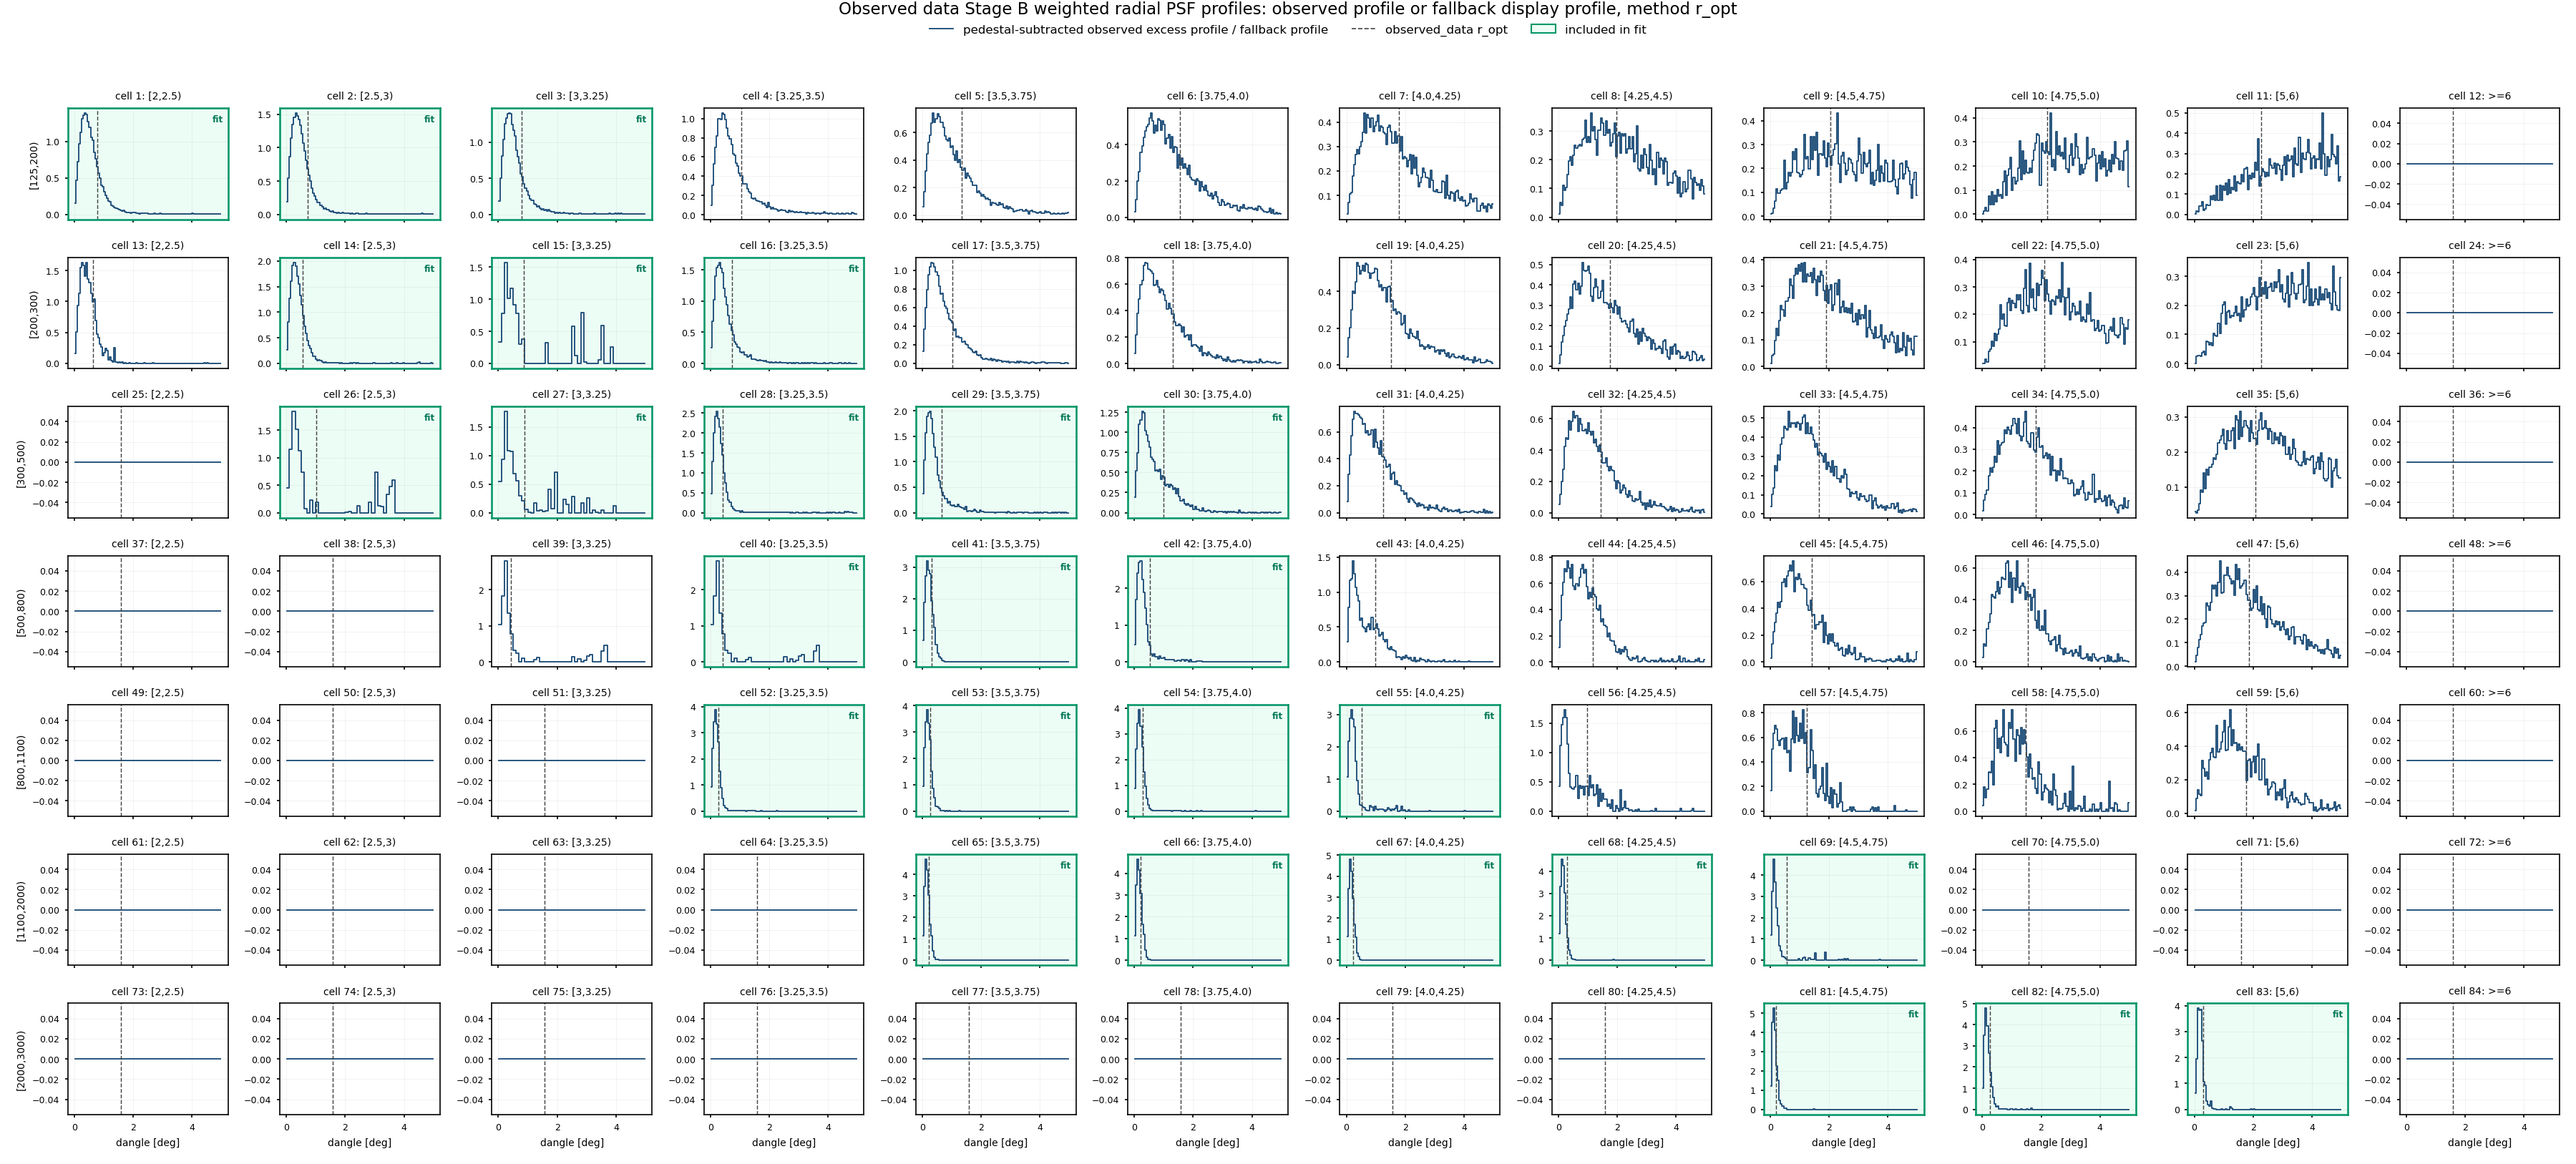
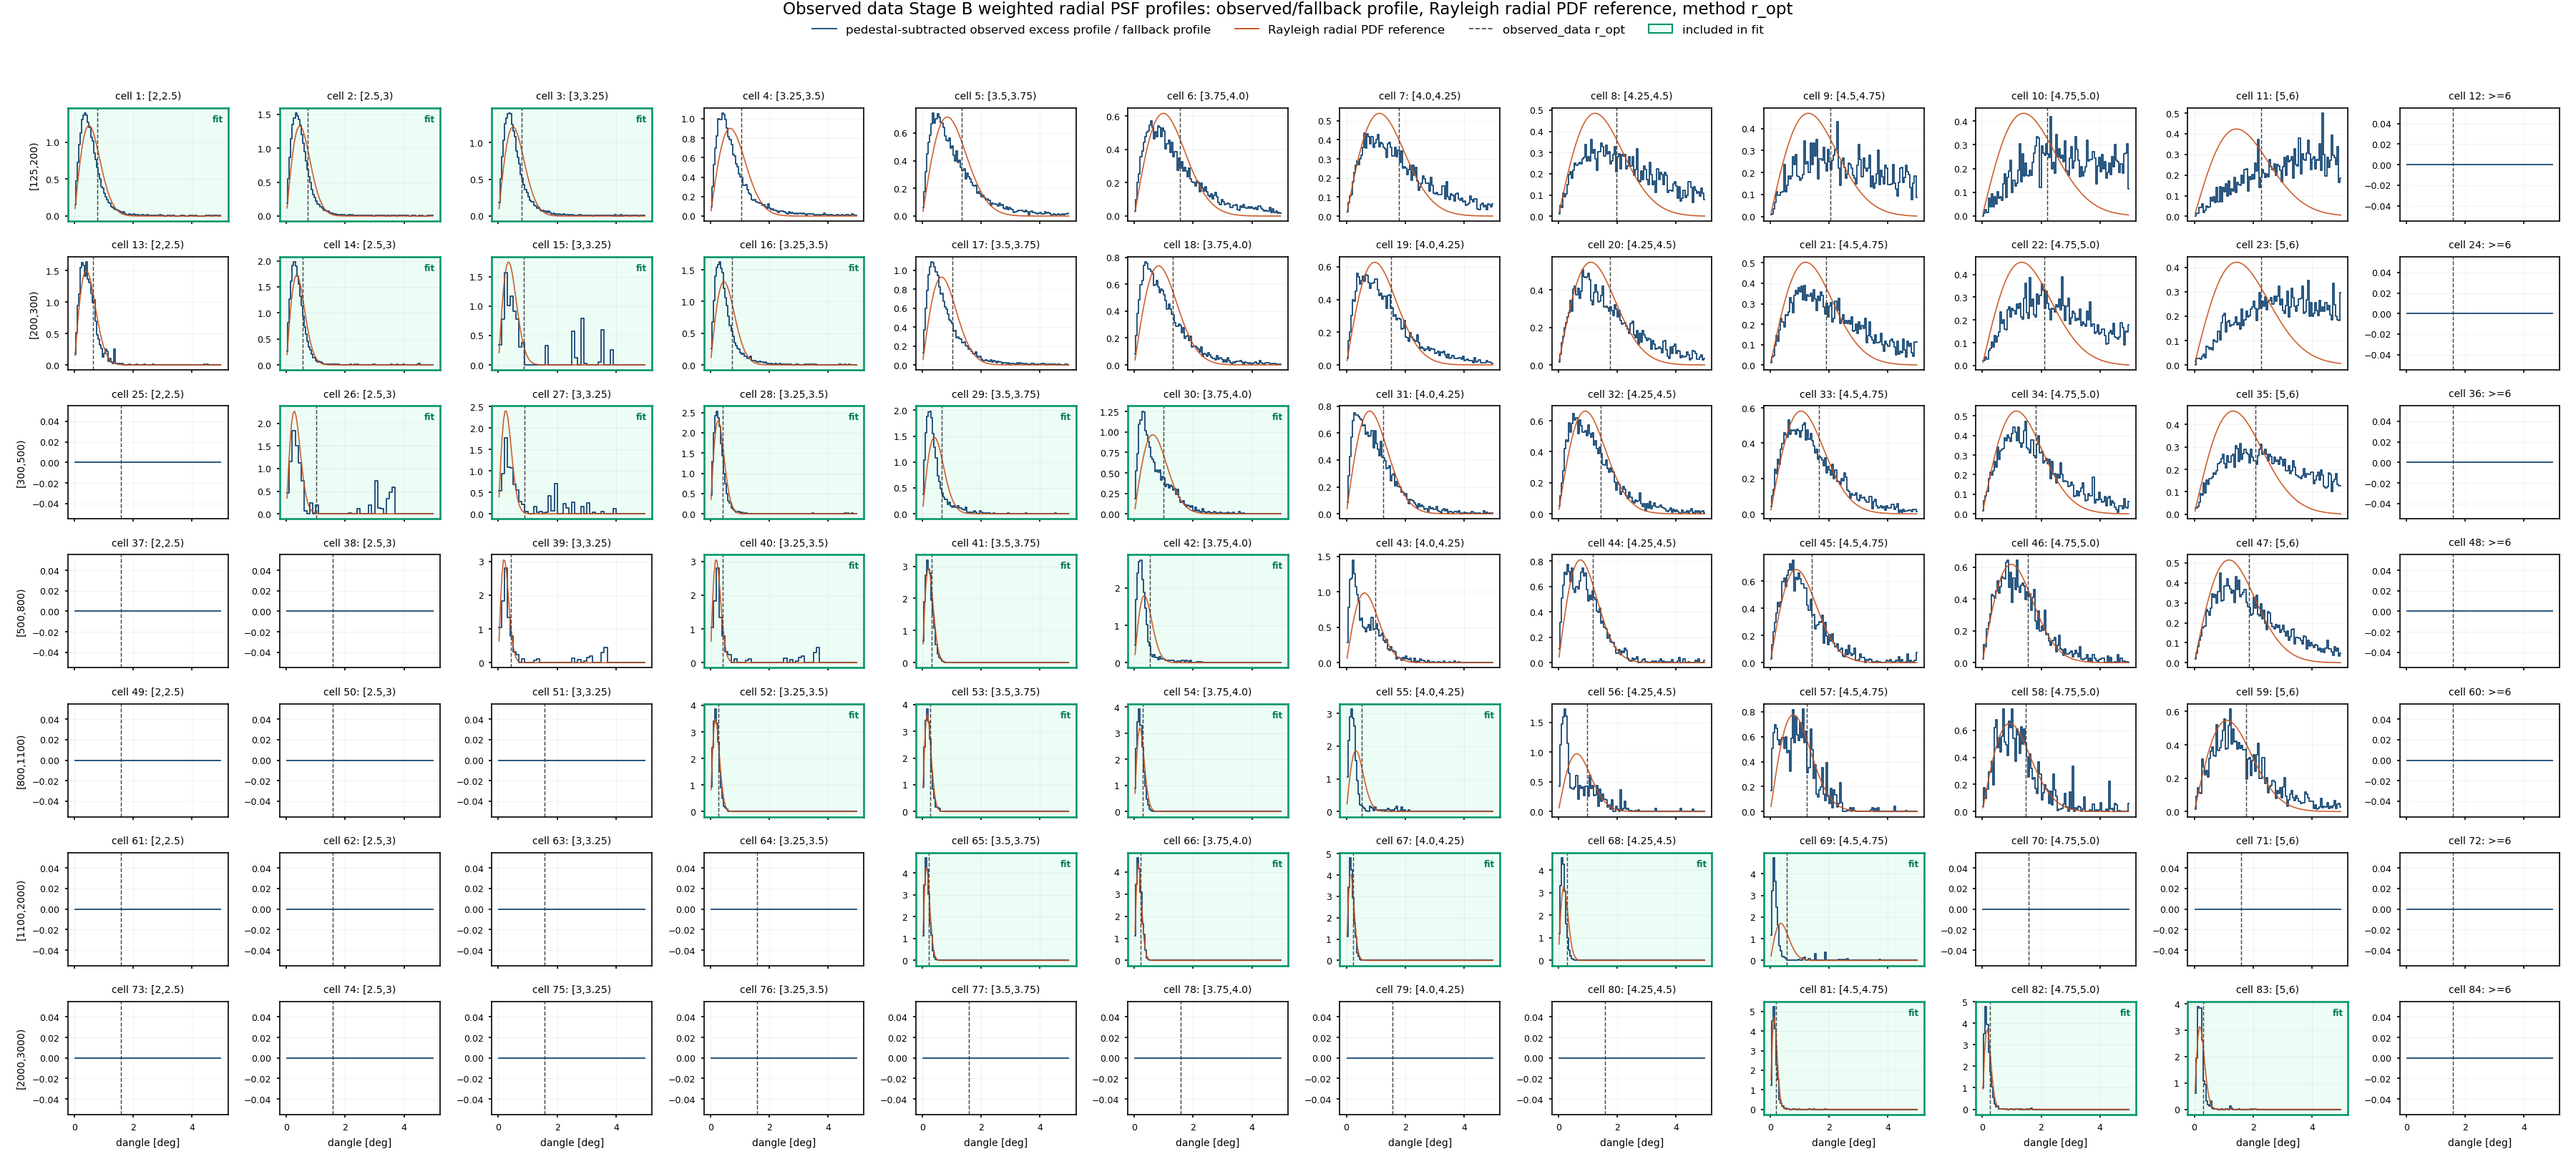
report(apply): add Rayleigh reference to observed-data PSF grid

diff --git a/apply/report/crab_sed_v5_psf_comparison_report.html b/apply/report/crab_sed_v5_psf_comparison_report.html
@@ -155,7 +155,7 @@
   <figure><img src="assets/v5-psf-comparison/v5_psf_rayleigh_baseline_weighted_profiles_fit_shaded.png" alt="Rayleigh baseline fit-cell shaded weighted PSF profile grid"><figcaption><strong>Rayleigh baseline fit-cell shaded weighted PSF profile grid</strong> Blue steps show the Stage B Crab-theta-weighted MC radial profile. The orange curve is the Rayleigh radial PDF fit/reference from the same cell&#x27;s Rayleigh sigma. The grey dashed line is Rayleigh r_opt = 1.58 sigma. Green shaded panels are cells included in the final SED fit.</figcaption></figure>
 <figure><img src="assets/v5-psf-comparison/v5_psf_two_1d_gaussian_weighted_profiles_fit_shaded.png" alt="Two 1D Gaussian fit-cell shaded weighted PSF profile grid"><figcaption><strong>Two 1D Gaussian fit-cell shaded weighted PSF profile grid</strong> Blue steps show the Stage B Crab-theta-weighted MC radial profile. The purple curve is the radial PDF induced by the fitted independent x/y Gaussian model; this is not Rayleigh except in the circular sigma_x = sigma_y limit. The grey dashed line is the two-1D circular containment radius solved from the fitted x/y Gaussian sigmas. Green shaded panels are cells included in the final SED fit.</figcaption></figure>
 <figure><img src="assets/v5-psf-comparison/v5_psf_mc_quantile_715_weighted_profiles_fit_shaded.png" alt="MC quantile fit-cell shaded weighted PSF profile grid"><figcaption><strong>MC quantile fit-cell shaded weighted PSF profile grid</strong> Blue steps show the Stage B Crab-theta-weighted MC radial profile. No parametric fit curve is drawn because this branch defines the aperture directly from the weighted empirical quantile. The grey dashed line is the empirical Crab-theta-reweighted mc_dangle quantile radius. Green shaded panels are cells included in the final SED fit.</figcaption></figure>
-<figure><img src="assets/v5-psf-comparison/v5_psf_observed_data_weighted_profiles_fit_shaded.png" alt="Observed data fit-cell shaded weighted PSF profile grid"><figcaption><strong>Observed data fit-cell shaded weighted PSF profile grid</strong> Blue steps show the pedestal-subtracted observed Crab excess radial profile when the cell passes the data-PSF quality gates; fallback or psfborrow cells show the documented fallback display profile. The grey dashed line is the observed-Crab radial-profile aperture after annnorm-background and flat-pedestal subtraction, or the documented fallback radius when the observed profile fails quality gates. Green shaded panels are cells included in the final SED fit.</figcaption></figure>
+<figure><img src="assets/v5-psf-comparison/v5_psf_observed_data_weighted_profiles_fit_shaded.png" alt="Observed data fit-cell shaded weighted PSF profile grid"><figcaption><strong>Observed data fit-cell shaded weighted PSF profile grid</strong> Blue steps show the pedestal-subtracted observed Crab excess radial profile when the cell passes the data-PSF quality gates; fallback or psfborrow cells show the documented fallback display profile. The orange curve is the Rayleigh radial PDF reference from the same cell&#x27;s Rayleigh sigma; it is shown only as a comparison curve, not as the fit used to define the observed-data aperture. The grey dashed line is the observed-Crab radial-profile aperture after annnorm-background and flat-pedestal subtraction, or the documented fallback radius when the observed profile fails quality gates. Green shaded panels are cells included in the final SED fit.</figcaption></figure>
 
   <h2>Stage F Fit And Pulls</h2>
   <table><thead><tr><th>run</th><th>LogPar phi0</th><th>alpha</th><th>beta</th><th>chi2 / ndof</th><th>chi2/ndof</th><th>max abs pull</th><th>PL phi0</th><th>PL gamma</th></tr></thead><tbody><tr><td>v4 aperture baseline</td><td>2.36784e-12</td><td>2.7615</td><td>0.14536</td><td>117.3 / 23</td><td>5.1</td><td>5.538</td><td>2.12073e-12</td><td>2.632</td></tr>
@@ -180,16 +180,16 @@
   <p>This legacy diagnostic uses the same unrounded Rayleigh-contract target containment, <code>0.712979</code>, and computes an observed-excess <code>r715</code> from positive radial excess shells in the existing v4 empirical-PSF profiles. The observed_data branch above uses the stricter pedestal-subtracted version with fallback gates as its Stage B aperture input.</p>
   <table><thead><tr><th>cell</th><th>Nhit</th><th>predE</th><th>observed r715</th><th>MC quantile r715</th><th>obs/MC r715</th><th>Rayleigh r_opt</th></tr></thead><tbody><tr><td>1</td><td>[125,200)</td><td>[2,2.5)</td><td>2.602</td><td>2.408</td><td>1.08</td><td>0.7816</td></tr>
 <tr><td>2</td><td>[125,200)</td><td>[2.5,3)</td><td>1.6</td><td>0.8369</td><td>1.912</td><td>0.7211</td></tr>
-<tr><td>14</td><td>[200,300)</td><td>[2.5,3)</td><td>1.416</td><td>0.6457</td><td>2.194</td><td>0.5542</td></tr>
-<tr><td>15</td><td>[200,300)</td><td>[3,3.25)</td><td>0.8489</td><td>0.5583</td><td>1.52</td><td>0.5469</td></tr>
-<tr><td>16</td><td>[200,300)</td><td>[3.25,3.5)</td><td>2.912</td><td>0.7978</td><td>3.65</td><td>0.7287</td></tr>
-<tr><td>26</td><td>[300,500)</td><td>[2.5,3)</td><td>1.024</td><td>0.586</td><td>1.748</td><td>0.4214</td></tr>
-<tr><td>27</td><td>[300,500)</td><td>[3,3.25)</td><td>0.9543</td><td>0.4805</td><td>1.986</td><td>0.3961</td></tr>
-<tr><td>28</td><td>[300,500)</td><td>[3.25,3.5)</td><td>2.435</td><td>0.4178</td><td>5.829</td><td>0.4156</td></tr>
-<tr><td>29</td><td>[300,500)</td><td>[3.5,3.75)</td><td>1.751</td><td>0.628</td><td>2.788</td><td>0.6477</td></tr>
-<tr><td>40</td><td>[500,800)</td><td>[3.25,3.5)</td><td>0.4847</td><td>0.4072</td><td>1.19</td><td>0.3108</td></tr>
-<tr><td>41</td><td>[500,800)</td><td>[3.5,3.75)</td><td>2.06</td><td>0.3308</td><td>6.227</td><td>0.3253</td></tr>
-<tr><td>53</td><td>[800,1100)</td><td>[3.5,3.75)</td><td>2.035</td><td>0.2708</td><td>7.514</td><td>0.2622</td></tr></tbody></table>
+<tr><td>15</td><td>[200,300)</td><td>[2.5,3)</td><td>1.416</td><td>0.5583</td><td>2.537</td><td>0.5469</td></tr>
+<tr><td>16</td><td>[200,300)</td><td>[3,3.25)</td><td>0.8489</td><td>0.7978</td><td>1.064</td><td>0.7287</td></tr>
+<tr><td>17</td><td>[200,300)</td><td>[3.25,3.5)</td><td>2.912</td><td>1.235</td><td>2.358</td><td>1.033</td></tr>
+<tr><td>28</td><td>[300,500)</td><td>[2.5,3)</td><td>1.024</td><td>0.4178</td><td>2.452</td><td>0.4156</td></tr>
+<tr><td>29</td><td>[300,500)</td><td>[3,3.25)</td><td>0.9543</td><td>0.628</td><td>1.52</td><td>0.6477</td></tr>
+<tr><td>30</td><td>[300,500)</td><td>[3.25,3.5)</td><td>2.435</td><td>1.131</td><td>2.152</td><td>0.9901</td></tr>
+<tr><td>31</td><td>[300,500)</td><td>[3.5,3.75)</td><td>1.751</td><td>1.357</td><td>1.29</td><td>1.254</td></tr>
+<tr><td>42</td><td>[500,800)</td><td>[3,3.25)</td><td>1.965</td><td>0.4473</td><td>4.393</td><td>0.5331</td></tr>
+<tr><td>43</td><td>[500,800)</td><td>[3.25,3.5)</td><td>0.4847</td><td>1.062</td><td>0.4563</td><td>0.9741</td></tr>
+<tr><td>44</td><td>[500,800)</td><td>[3.5,3.75)</td><td>2.06</td><td>1.226</td><td>1.68</td><td>1.183</td></tr></tbody></table>
   <figure><img src="assets/v5-psf-comparison/v5_observed_excess_r715_diagnostic.png" alt="Observed excess r715 diagnostic"><figcaption><strong>Observed excess r715 diagnostic</strong> Legacy observed Crab excess r715 cross-check before the stricter observed_data branch gates are applied.</figcaption></figure>
 
   <h2>Contract Validation</h2>

diff --git a/apply/report/build_v5_psf_comparison_report.py b/apply/report/build_v5_psf_comparison_report.py
@@ -741,6 +741,8 @@ def profile_grid_caption(method: str) -> str:
         "observed_data": (
             "Blue steps show the pedestal-subtracted observed Crab excess radial profile when the cell passes the data-PSF quality gates; "
             "fallback or psfborrow cells show the documented fallback display profile. "
+            "The orange curve is the Rayleigh radial PDF reference from the same cell's Rayleigh sigma; it is shown only as a comparison curve, "
+            "not as the fit used to define the observed-data aperture. "
             "The grey dashed line is the observed-Crab radial-profile aperture after annnorm-background and flat-pedestal subtraction, "
             "or the documented fallback radius when the observed profile fails quality gates. "
             "Green shaded panels are cells included in the final SED fit."
@@ -820,7 +822,7 @@ def plot_fit_shaded_psf_profile_grid(method: str, payload: Dict[str, object], pa
             ax.step(centers, density, where="mid", color="#1f4e79", linewidth=0.9)
             has_profile = bool(np.isfinite(density).any() and np.nansum(density) > 0.0)
             if (
-                method == "rayleigh_baseline"
+                method in {"rayleigh_baseline", "observed_data"}
                 and has_profile
                 and idx < sigma_rad.size
                 and np.isfinite(sigma_rad[idx])
@@ -870,8 +872,9 @@ def plot_fit_shaded_psf_profile_grid(method: str, payload: Dict[str, object], pa
     handles = [
         Line2D([0], [0], color="#1f4e79", linewidth=0.9, label=profile_label),
     ]
-    if method == "rayleigh_baseline":
-        handles.append(Line2D([0], [0], color="#c9501a", linewidth=0.9, label="Rayleigh radial PDF"))
+    if method in {"rayleigh_baseline", "observed_data"}:
+        rayleigh_label = "Rayleigh radial PDF reference" if method == "observed_data" else "Rayleigh radial PDF"
+        handles.append(Line2D([0], [0], color="#c9501a", linewidth=0.9, label=rayleigh_label))
     if method == "two_1d_gaussian":
         handles.append(Line2D([0], [0], color="#7c3aed", linewidth=0.9, label="two-1D induced radial PDF"))
     handles.extend(
@@ -885,7 +888,7 @@ def plot_fit_shaded_psf_profile_grid(method: str, payload: Dict[str, object], pa
         "rayleigh_baseline": "MC profile, Rayleigh radial PDF, method r_opt",
         "two_1d_gaussian": "MC profile, two-1D induced radial PDF, method r_opt",
         "mc_quantile_715": "MC profile and empirical-quantile method r_opt",
-        "observed_data": "observed profile or fallback display profile, method r_opt",
+        "observed_data": "observed/fallback profile, Rayleigh radial PDF reference, method r_opt",
     }[method]
     fig.suptitle(
         f"{METHODS[method]['label']} Stage B weighted radial PSF profiles: {title_tail}",

diff --git a/apply/devlog.md b/apply/devlog.md
@@ -6,6 +6,8 @@ Detailed design rationale belongs in `report/` or `docs/`. Authoritative history
 
 ---
 
+- **energy** · 2026-07-01 10:34 · [9d3ae4d] Add Rayleigh reference curves to the observed-data v5 PSF profile grid and clarify the caption.
+
 - **energy** · 2026-06-30 22:23 · [123f38e] Rebuild v4 split56 ridge-only baseline and compress the v4 report around the current Stage A-G results.
 
 - **energy** · 2026-06-30 21:54 · [cccb7c6] Add observed-data v5 PSF aperture branch with MC-ratio guard and four-branch comparison report.
